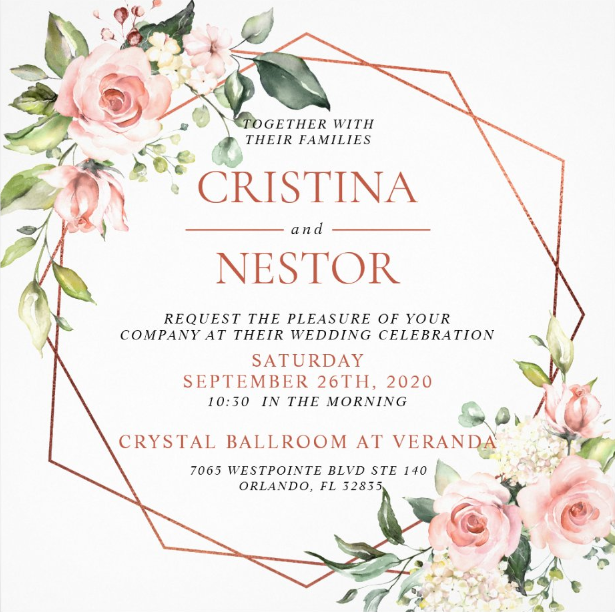
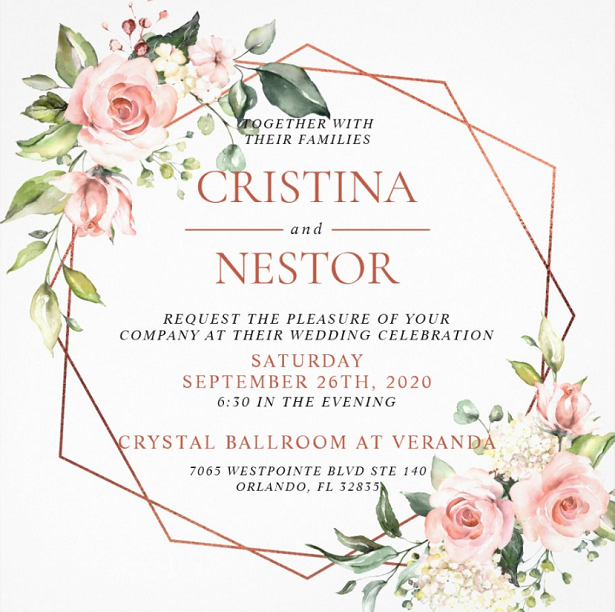
Latest changes in COVID-19 and new wedding time

diff --git a/index.html b/index.html
@@ -51,6 +51,7 @@
                     <div class="header-nav">
                         <nav>
                             <ul class="primary-nav">
+                                <li><a href="#notice">Notice</a></li>
                                 <li><a href="#intro">How we met</a></li>
                                 <li><a href="#events">Events</a></li>
                                 <li><a href="#instagram">Instagram</a></li>
@@ -106,16 +107,42 @@
             visibility: visible; 
             display: block; 
           } 
-        } </style>
+    } </style>
 
-    <section id="invitation" class="section-padding events">
+    <section id="notice" style="padding: 25px 0; background: rgb(169, 68, 66, 0.5);">
         <div class="container">
             <div class="row">
-                <div class="col-md-12 text-center">
-                    <img id="desktop" src="img/invitation.png" alt="" />
-                    <img id="mobile" src="img/invitation_small.PNG" alt="" style="
-                    margin-left: 30px;
-                "/>
+                <div class="text-center">
+                    <h3 class="header" style="color: black;">IMPORTANT!!</h3>
+                </div>
+                <div class="container">
+                    <p style="color: black; font-weight: 650;"><span style="font-weight: 800; font-size: large;">The wedding time has changed!!</span> The wedding will now be held on <span style="font-weight: 900;">September 26, 2020 from 7 PM - 12 AM.</span> 
+                        These changes have been applied throughout the website.</p>
+                    <p style="color: black; font-weight: 650;"><span style="font-weight: 800; font-size: large;">Why don't you postpone the wedding?</span> Many of you may be asking why the wedding date has not been postponed given these uncertain and difficult times. 
+                        Please know that we would have postponed the wedding if we could, but we were not able to do so due to our venue and vendor signed contracts. Moving the date
+                        means losing a substantial amount of money already invested for a future date that does not guarantee a better pandemic-related outcome. Simply put, cancelling or moving the wedding date is, unfortunately, not feasible for us.</p>
+                    <p style="color: black; font-weight: 650;"><span style="font-weight: 800; font-size: large;">Things you should know...</span> The wedding start time is at 7 PM <span style="text-decoration: underline">sharp</span>
+                        so we strongly advice you arrive 30 minutes prior to the start time. Any late arrivals will have to wait in the lobby until the service ends to avoid any
+                        interruptions to the wedding ceremony. We expect our guests to dress appropriately to the occasion by wearing formal or semi-formal attire. Additionally, the venue has plenty of free parking space for guests.
+                    </p>
+                    <p style="color: black; font-weight: 650;"><span style="font-weight: 800; font-size: large;">Let's talk about COVID-19...</span> As many of you know already know,
+                    confirmed cases of COVID-19 have been ramping up in Florida in the past few months. However, we strongly encourage you to get informed about the confirmed cases in Orange County, FL and not the confirmed cases for the entire state of Florida.
+                    For the latest COVID-19 cases per US County please visit <a href="https://coronavirus.jhu.edu/us-map" target="_blank" style="color: #a94442; text-decoration: underline">COVID-19 United States Cases by County</a>.
+                    The wedding venue has also updated their website to include their <a href="https://www.crystalballroomatveranda.com/post/safety-at-your-wedding-venue?fbclid=IwAR1DX_z2uNiizhvnG7TjDu6_Y21PltjBvNXO0A_886sXTmVhB_NICsNUpjo" target="_blank" style="color: #a94442; text-decoration: underline">COVID-19 safety guidelines</a>.
+                    The venue has taken proactive measures to make the wedding party and guests feel safer by regularly sanitizing and cleaning high-touch surface areas and by taking the temperature of every guest before entering the venue. Although wearing face masks is not required by the venue, we 
+                    will ask <span style="font-weight: 900; font-size: large;">all</span> our guests to be wear face masks during the duration of the event because we want everyone to enjoy the event and have some piece of mind while doing it. Wearing masks is not the most comfortable thing but we must show <span style="text-decoration: underline">respect</span> and consideration
+                    for one another. Thank you!!</p>
+                </div>
+            </div>
+        </div>
+    </section>
+
+    <section id="invitation">
+        <div class="container">
+            <div class="row">
+                <div class="col-md-12 text-center" style="margin-top: 25px;">
+                    <img id="desktop" src="img/invitation.PNG" alt="" />
+                    <img id="mobile" src="img/invitation_small.PNG" alt="" style="margin: auto"/>
                 </div>
             </div>
         </div>
@@ -154,7 +181,7 @@
                 </div>
                 <div class="col-md-3 hidden-sm hidden-xs" style="margin-top: 10%;"><img src="img/photo2.jpg" class="wp2"></div>
             </div>
-            <div class="row">
+            <div class="row" style="margin-bottom: 20px">
                 <div class="col-sm-4 col-sm-push-2 col-xs-6 hidden-md hidden-lg"><img src="img/photo1.jpg"
                         class="wp8"></div>
                 <div class="col-sm-4 col-sm-push-2 col-xs-6 hidden-md hidden-lg"><img src="img/photo2.jpg"
@@ -182,33 +209,33 @@
                             <div class="card text-center w-75" style="margin-bottom: 1rem; ">
                                 <div class="card-body">
                                   <h4 class="card-title" style="color: #a94442;">WEDDING CEREMONY</h4>
-                                  <p class="card-text">11 - 11:30 AM</p>
+                                  <p class="card-text" style="font-weight: 600;">7:00 - 7:30 PM</p>
                                   <img src="img/chapel.png" class="wp2" style="margin-top: -1.5rem;">  
                                 </div>
                               </div>
 
                               <div class="card text-center w-75" style="margin-bottom: 1rem;">
                                 <div class="card-body">
-                                  <h5 class="card-title" style="color: #a94442;">Cocktail Hour</h5>
-                                  <p class="card-text">11:45 AM - 12:30 PM</p>
+                                  <h4 class="card-title" style="color: #a94442;">COCKTAIL HOUR</h4>
+                                  <p class="card-text" style="font-weight: 600;">7:45 - 8:30 PM</p>
                                   <img src="img/champagne_icon1.png" class="wp2" style="margin-top: -2.5rem;">  
                                 </div>
                               </div>
 
                               <div class="card text-center w-75">
                                 <div class="card-body">
-                                  <h5 class="card-title" style="color: #a94442;">Reception</h5>
-                                  <p class="card-text">12:30 - 3:00 PM</p>
+                                  <h4 class="card-title" style="color: #a94442;">RECEPTION</h4>
+                                  <p class="card-text" style="font-weight: 600;">8:30 PM - 12:00 AM</p>
                                   <div class="container w-75">
                                     <div class="row">
                                         <div class="col-sm-4">
                                             <img src="img/food3.png" class="wp2" style="padding-left: 0px;">
                                         </div> 
                                         <div class="col-sm-4">
-                                            <img src="img/dance.png" class="wp2">
+                                            <img src="img/cake1.png" class="wp2">
                                         </div>
                                         <div class="col-sm-4">
-                                            <img src="img/cake1.png" class="wp2">
+                                            <img src="img/dance.png" class="wp2">
                                         </div>
                                       </div>
                                   </div>                                  
